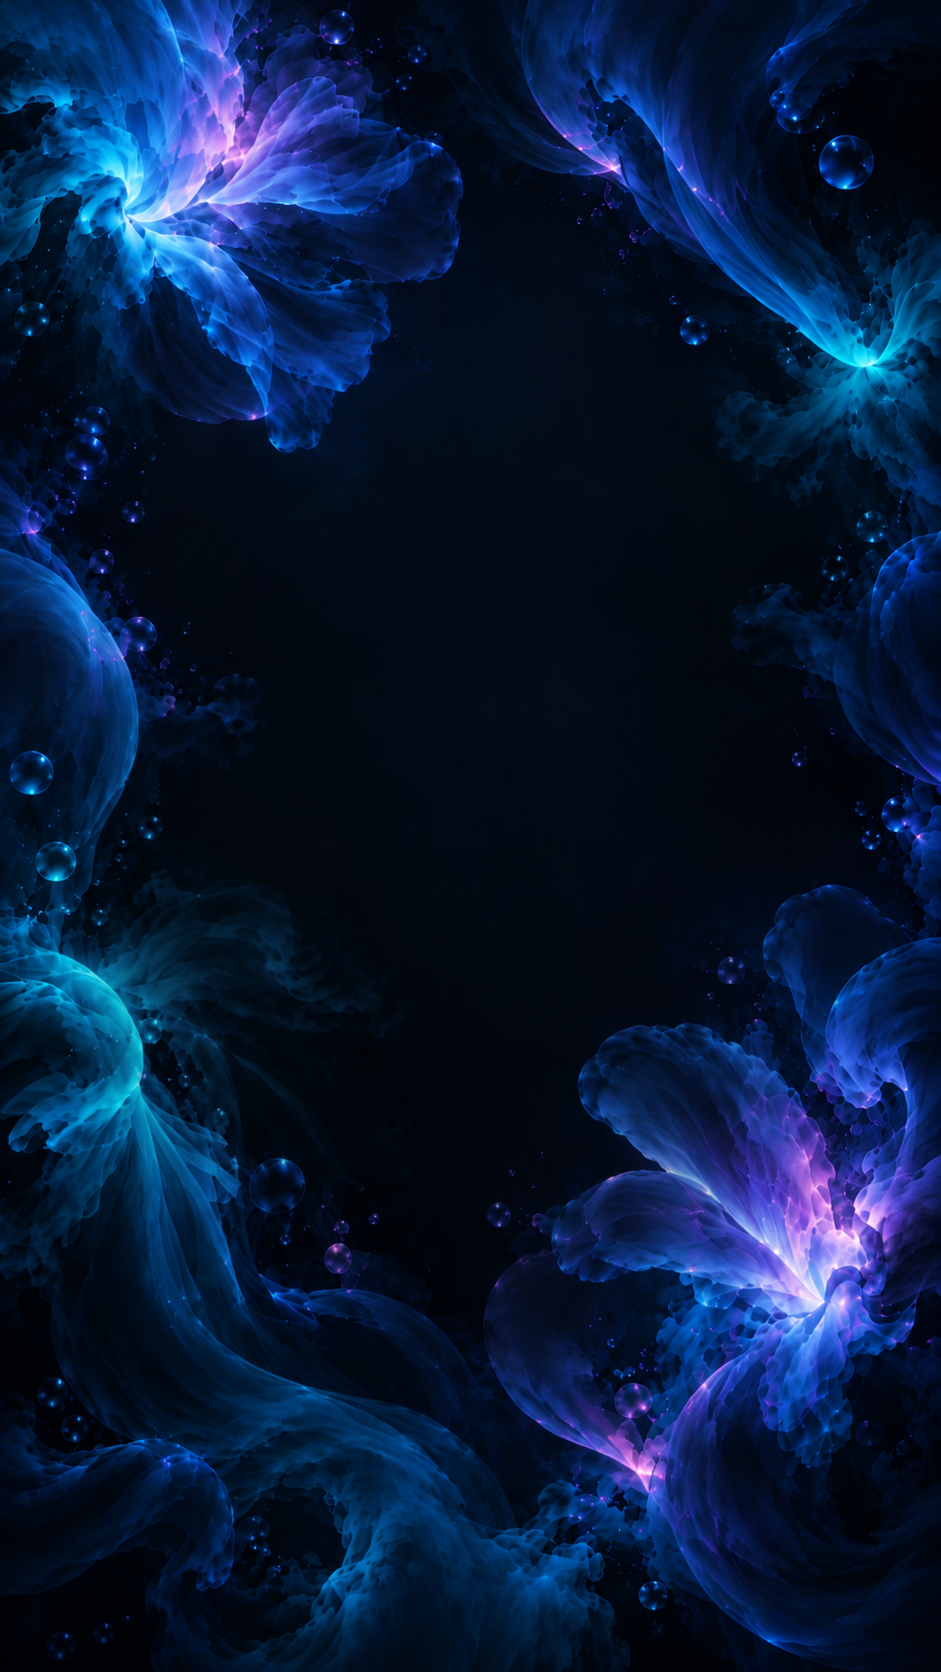
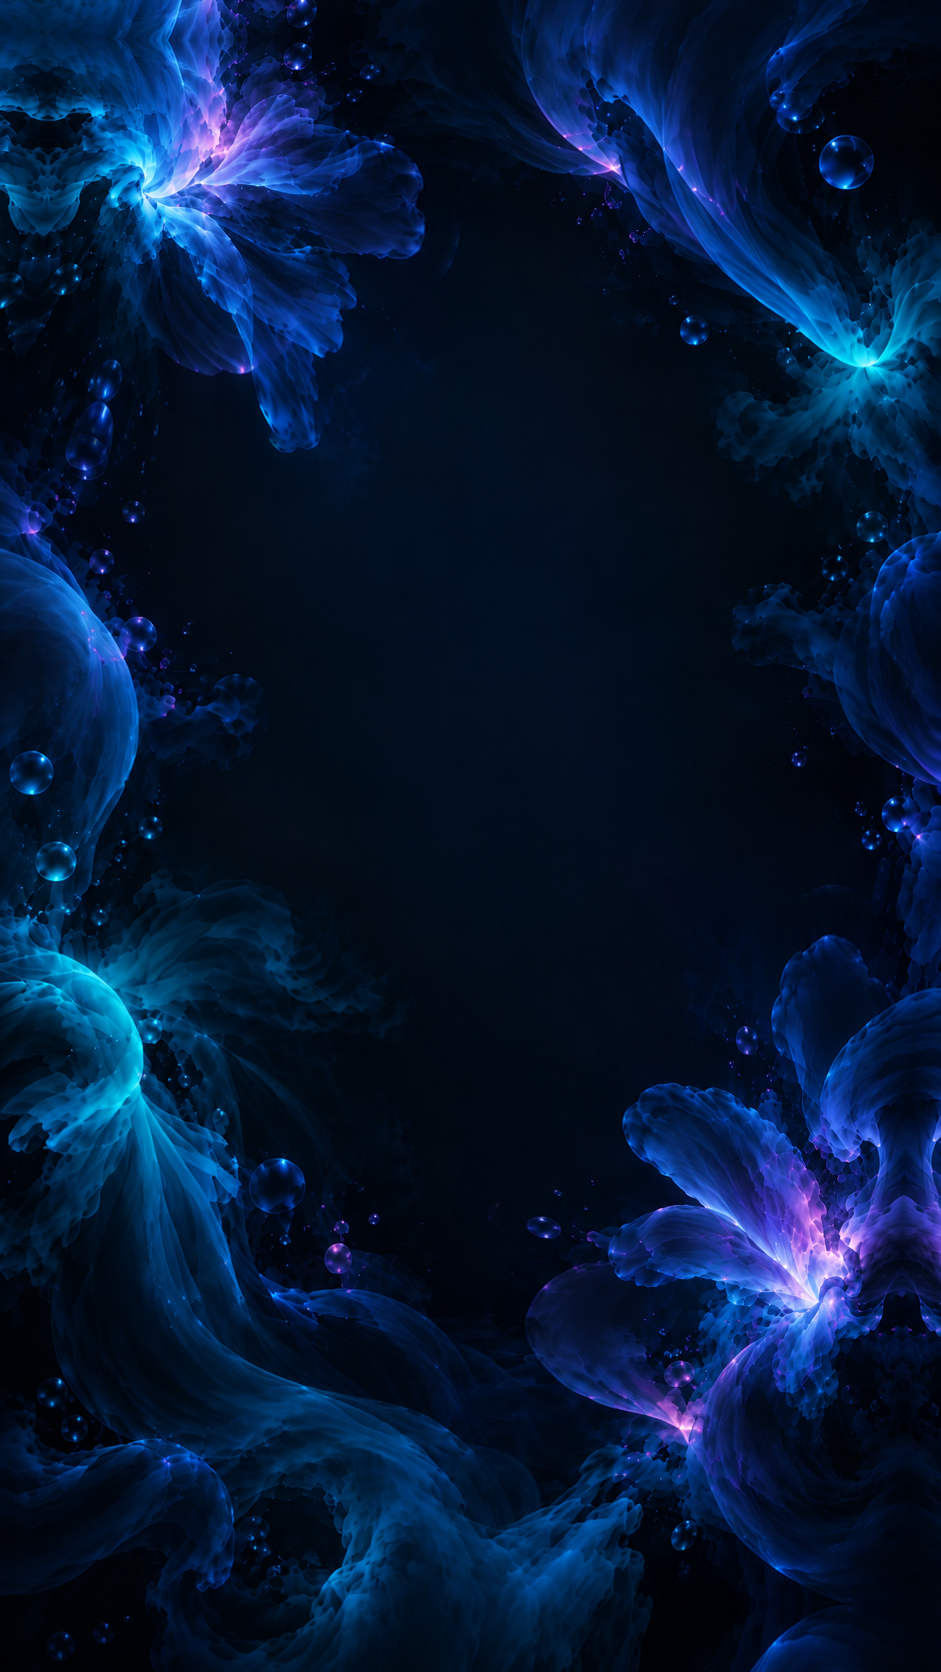
Add real opening transition to Abyss Bloom
Replace brightness-only keyframes with source-derived geometric petal opening/closing states while preserving the original full-bloom artwork and canonical canvas sizes.

diff --git a/alwayson/backgrounds/packages/abyss-bloom/1/assets/README.md b/alwayson/backgrounds/packages/abyss-bloom/1/assets/README.md
@@ -1,6 +1,6 @@
 # Abyss Bloom assets
 
-Abyss Bloom is a four-state ambient bloom loop derived from the original Abyss Bloom artwork. The frames are animation keyframes of one locked scene, not independently generated illustrations.
+Abyss Bloom is a four-state ambient flower-opening loop derived from the original Abyss Bloom artwork. The frames are animation keyframes of one locked scene, not independently generated illustrations.
 
 ## Canonical canvases
 
@@ -15,34 +15,36 @@ Use PNG, sRGB, no embedded text. Keep the upper/central clock area subdued enoug
 
 ## Source artwork and sequence
 
-The fully opened state is the original Abyss Bloom artwork. The other states are derived from those same source pixels so the background, crop, bloom center, and surrounding structures stay fixed.
+Frame 2 is the untouched original Abyss Bloom artwork at full bloom. Frames 0, 1, and 3 are derived from that same source image with local geometric petal warps so the flowers visibly open and close while the background, crop, bloom centers, and surrounding structures stay fixed.
 
 | Frame | Landscape | Portrait | Visual state |
 | --- | --- | --- | --- |
-| 0 | `AbyssBloomLandscape.png` | `AbyssBloomPortrait.png` | subdued / faint bloom |
-| 1 | `AbyssBloomLandscape1.png` | `AbyssBloomPortrait1.png` | brighter / opening transition |
-| 2 | `AbyssBloomLandscape2.png` | `AbyssBloomPortrait2.png` | original artwork at full strength |
-| 3 | `AbyssBloomLandscape3.png` | `AbyssBloomPortrait3.png` | subdued / fading loop bridge |
+| 0 | `AbyssBloomLandscape.png` | `AbyssBloomPortrait.png` | closed / compact bloom |
+| 1 | `AbyssBloomLandscape1.png` | `AbyssBloomPortrait1.png` | partially open transition |
+| 2 | `AbyssBloomLandscape2.png` | `AbyssBloomPortrait2.png` | original artwork, fully open |
+| 3 | `AbyssBloomLandscape3.png` | `AbyssBloomPortrait3.png` | partially closing loop bridge |
 
 The intended loop is:
 
-`faint → opening → full bloom → fade → faint`
+`closed → opening → full bloom → closing → closed`
 
-Frame 3 should remain visually close to frame 0 so the final crossfade back to frame 0 is difficult to notice.
+Frame 3 should bridge back toward frame 0 so the final crossfade is calm and difficult to notice.
 
 ## Composition lock
 
 For all four frames of an orientation:
 
-- Keep the camera, crop, background, bloom center, and surrounding structures fixed.
+- Keep the camera, crop, background, flower centers, and surrounding structures fixed.
 - Derive states from the same original master image; do not redraw or independently regenerate the scene.
 - Preserve the original Abyss Bloom visual style, texture, color palette, and detail.
-- Keep background pixels unchanged wherever possible.
-- Change bloom energy, brightness, saturation, softness, or local visibility rather than replacing the flower with a different shape.
-- Avoid geometry changes that create doubled petals or objects during a crossfade.
+- Keep the central clock area and non-flower background unchanged wherever possible.
+- Change the flowers through local petal geometry: fold/pull petals inward for closed states and progressively restore the original geometry as the bloom opens.
+- Frame 2 must remain the original full-bloom artwork.
+- Brightness or saturation changes may support the transition, but they must not be the only difference between frames.
+- Avoid unrelated geometry changes that create doubled petals or moving background objects during a crossfade.
 - Do not change canvas dimensions between states.
 
-A useful review test is to overlay adjacent frames at 50% opacity. Static edges should coincide exactly or nearly exactly, and the bloom should read as one object changing energy rather than two different illustrations.
+A useful review test is to compare normalized flower edges between frame 0 and frame 2. The petal contours should be visibly different, while static background structures and the clock area remain aligned.
 
 ## Timing
 
